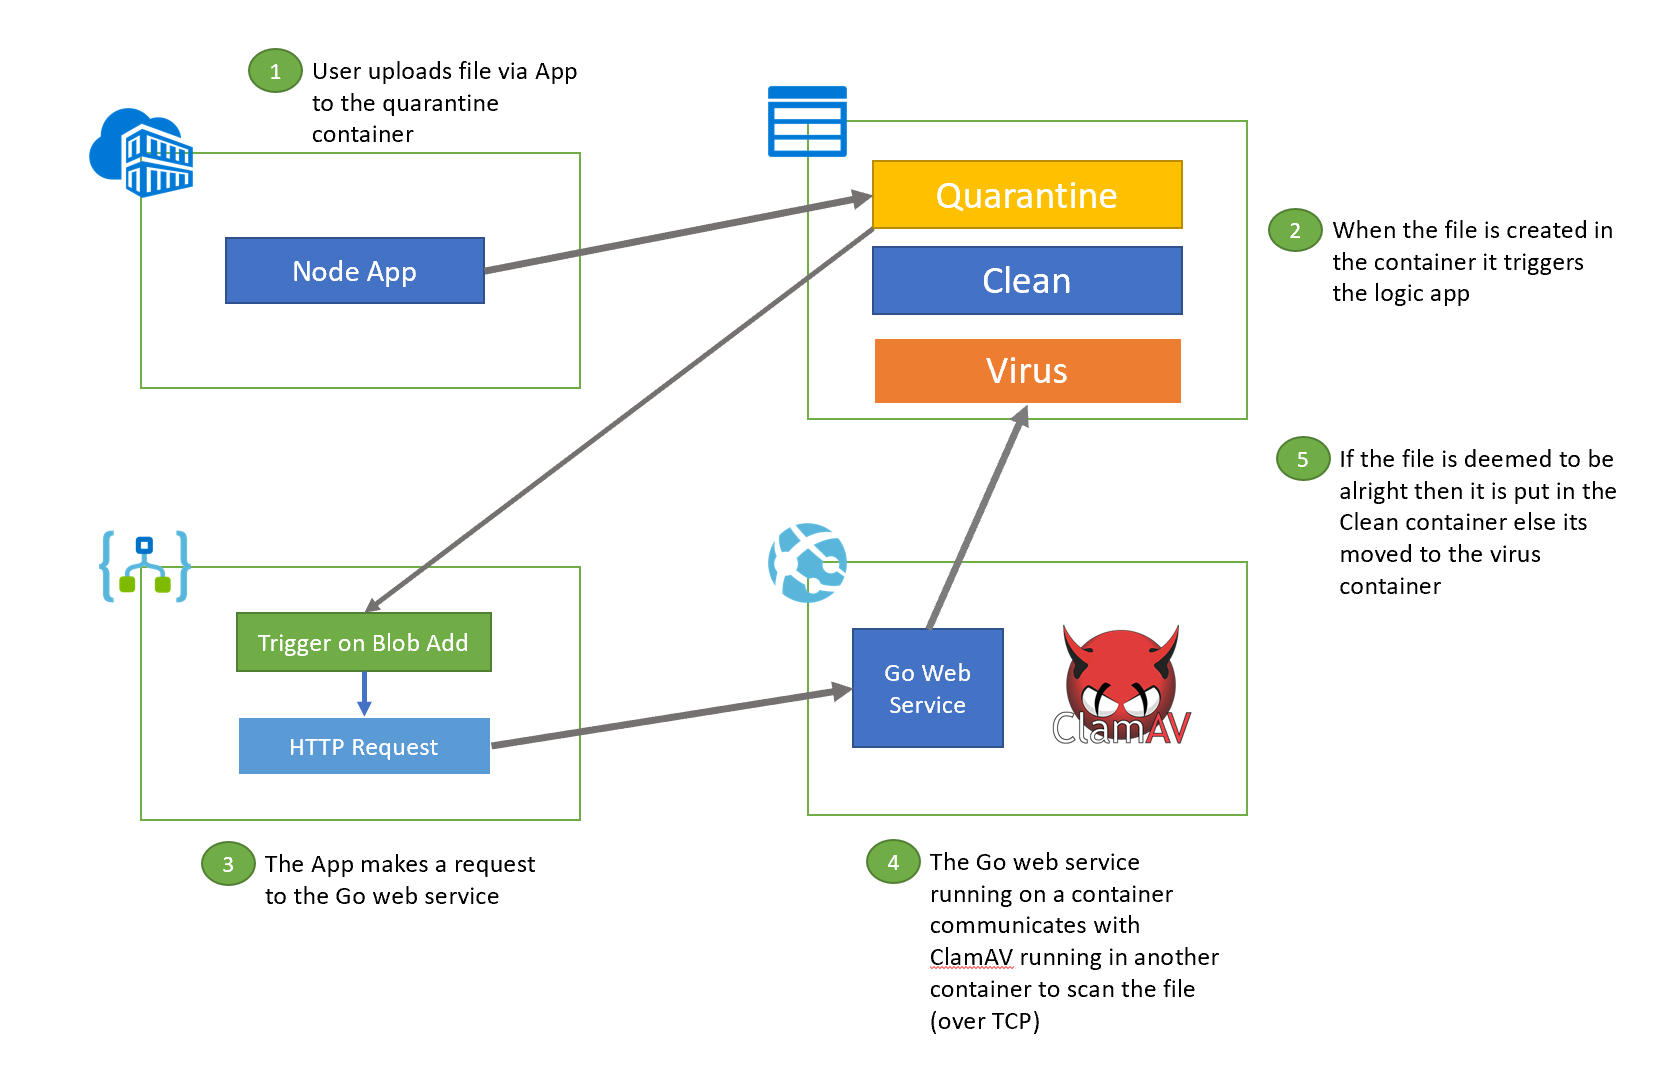
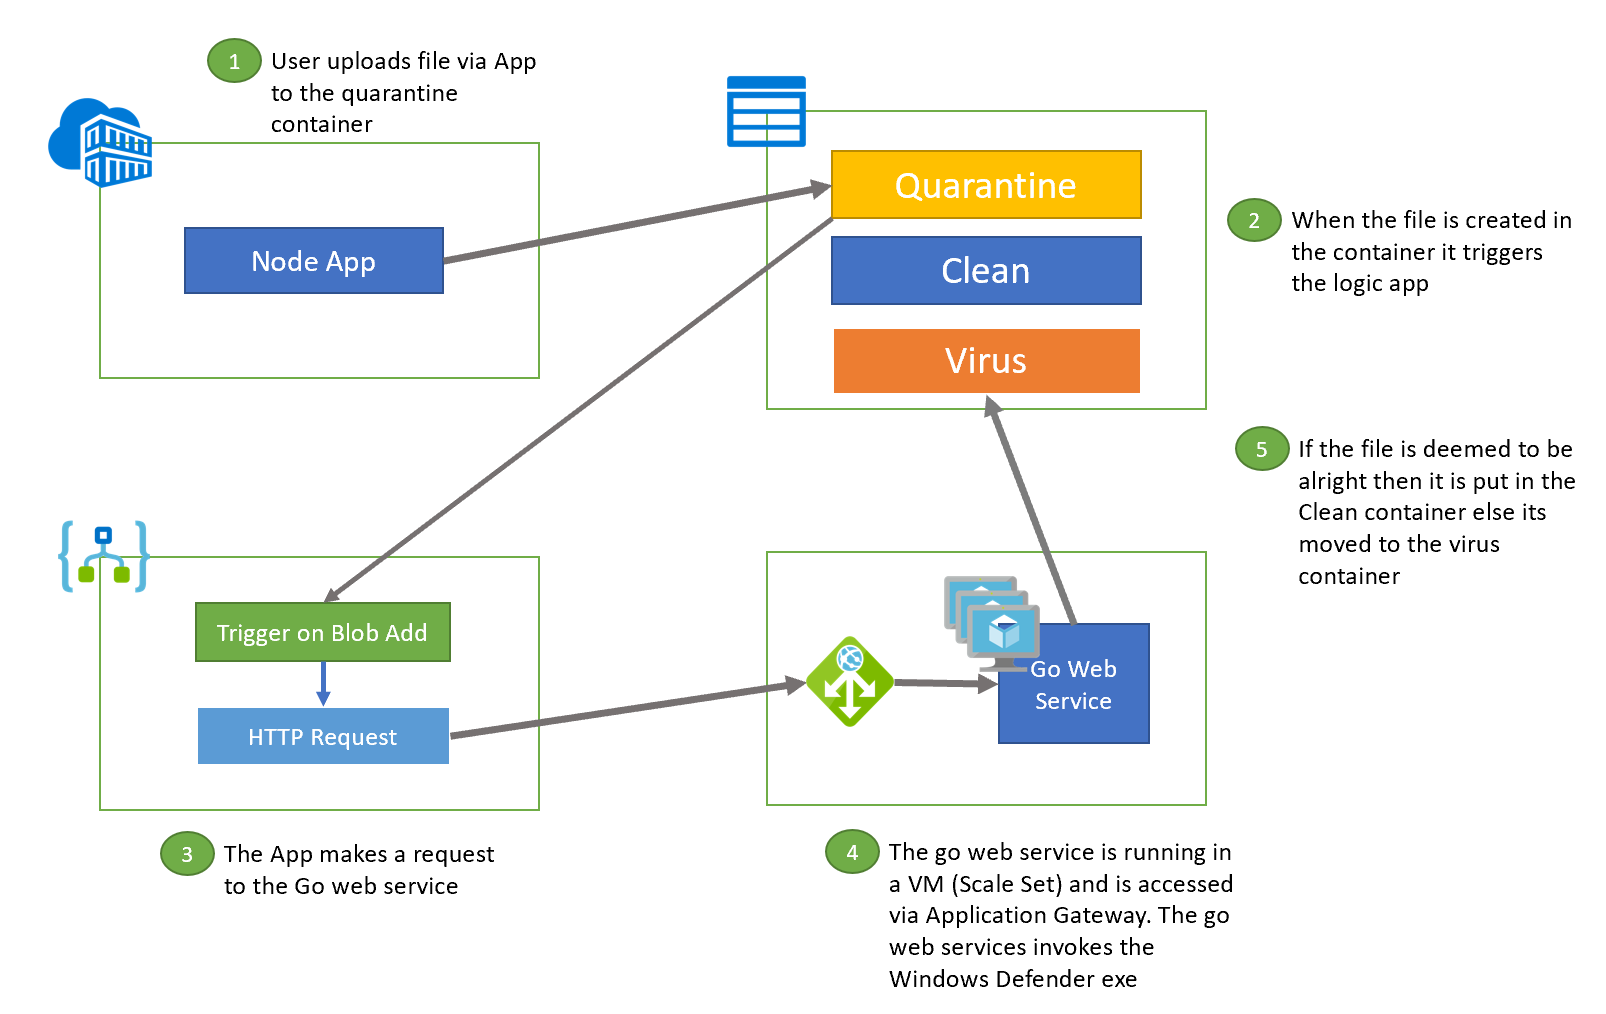
Updated Architecture and Readme

diff --git a/README.md b/README.md
@@ -1,8 +1,8 @@
-# Azure AntiVirus Solution
+# Azure AntiVirus Solution (using Windows Defender)
 
 Often when allowing customers to upload files via your website there is a need to scan the file for viruses before the file can be accessed by your internal team who would be processing the file. 
 
-This is a proof of concept that creates such an architecture. The proof of concept consists of a frontend (nodejs / express) that is used by users to upload a file. When the file is uploaded it is sent to a Quarantine container where it triggers a logic app. The logic app in turn then invokes a API (via HTTP). The API then invokes a web service (App Service) written in Go which then via TCP invokes a ClamAV service to scan the file. If the file has a virus it is moved to the Virus container else it is moved to the Clean container.
+This is a proof of concept that creates such an architecture. The proof of concept consists of a frontend (nodejs / express) that is used by users to upload a file. When the file is uploaded it is sent to a Quarantine container where it triggers a logic app. The logic app in turn then invokes an API (via HTTP). The API is a web service (App Service) written in Go which sits in a VM behind an application gateway. The Go web service then invokes the Windows Defender executable (MpCmdRun.exe) to run a custom scan passing in the file. If the file has a virus it is moved to the Virus container else it is moved to the Clean container.
 
 This is the overall architecture:
 
